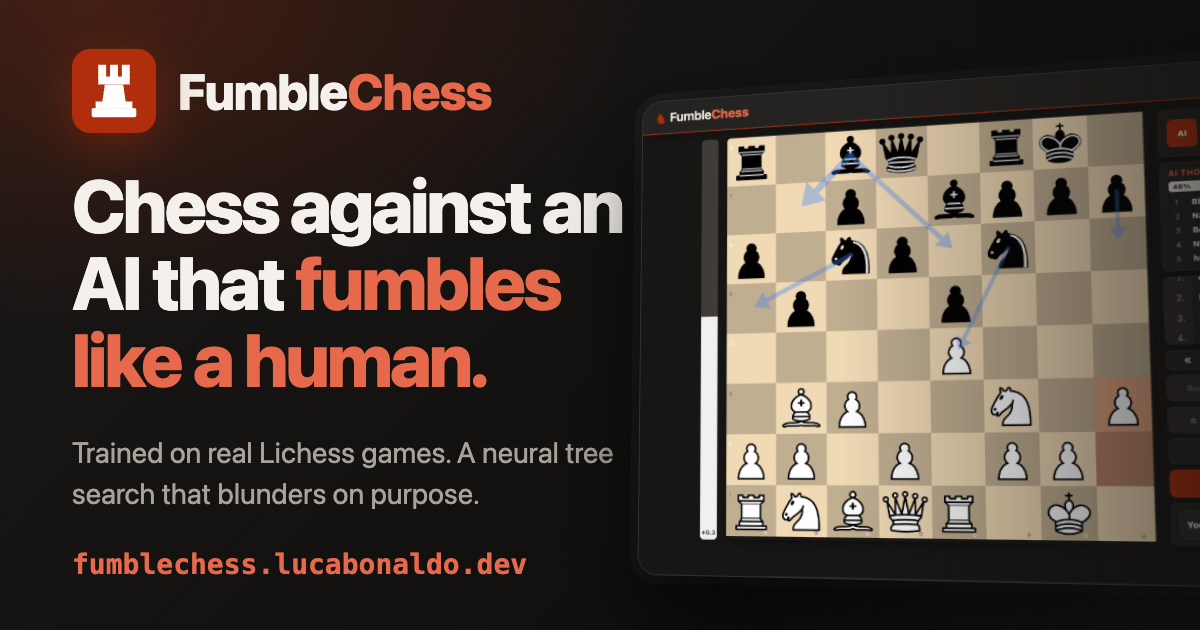
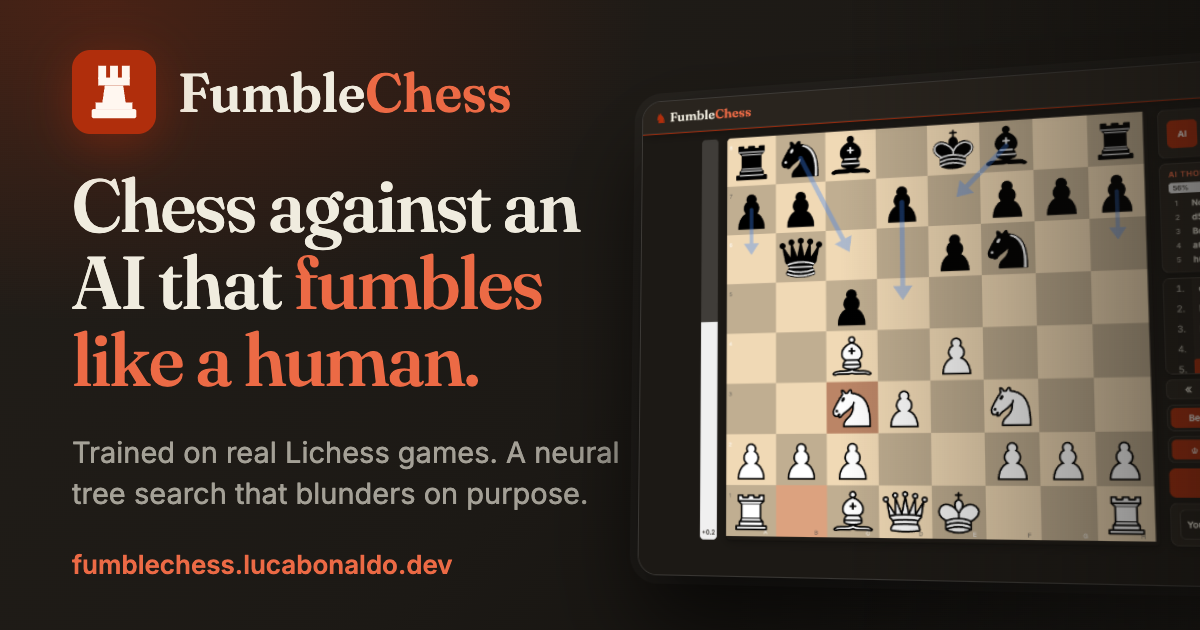
Adopt the paper & ink design system
Colors, fonts and light/dark come from @lucabonaldo/design (v0.1.0); the
board, eval bar and move highlights keep their own colors. Fraunces for the
wordmark and the About section, Inter for text. The theme toggle uses the
shared cookie, carrying over the old deepchess:theme setting.

Social preview restyled in warm ink with a fresh app screenshot.

diff --git a/src/style.css b/src/style.css
@@ -1,30 +1,21 @@
 :root {
-  --primary: #b02e0c;
-  --primary-hover: #96260a;
-  --on-primary: #fff;
-  --accent: #b02e0c; /* primary used for text/icons on the page background */
-  --bg: #f3f0eb;
-  --surface: #fff;
-  --surface-2: #ece8e1;
-  --text: #211f1c;
-  --muted: #6f6a62;
-  --border: #dcd6cc;
-  --shadow: 0 1px 2px rgba(0, 0, 0, 0.06), 0 4px 16px rgba(0, 0, 0, 0.06);
+  /* Colors and fonts come from @lucabonaldo/design (paper & ink), which also handles
+     light/dark. These are this app's aliases for its role tokens. */
+  --primary: var(--ds-accent-fill); /* filled shapes, paired with --on-primary */
+  --primary-hover: var(--ds-accent-fill-hover);
+  --on-primary: var(--ds-on-accent);
+  --accent: var(--ds-accent); /* text and icons on the page background */
+  --bg: var(--ds-bg);
+  --surface: var(--ds-surface);
+  --surface-2: var(--ds-bg-soft);
+  --text: var(--ds-text);
+  --muted: var(--ds-text-soft);
+  --border: var(--ds-line);
+  --shadow: var(--ds-shadow);
   --radius: 10px;
+  /* eval bar: the two sides of the board, same in both themes */
   --eval-dark: #403d39;
   --eval-light: #f0f0f0;
-  color-scheme: light;
-}
-:root[data-theme='dark'] {
-  --accent: #e5694a;
-  --bg: #171615;
-  --surface: #252321;
-  --surface-2: #2f2c29;
-  --text: #efebe4;
-  --muted: #a29b90;
-  --border: #3a3633;
-  --shadow: 0 1px 2px rgba(0, 0, 0, 0.4), 0 4px 16px rgba(0, 0, 0, 0.35);
-  color-scheme: dark;
 }
 
 * {
@@ -35,12 +26,7 @@ body {
   min-height: 100vh;
   background: var(--bg);
   color: var(--text);
-  font-family:
-    system-ui,
-    -apple-system,
-    'Segoe UI',
-    Roboto,
-    sans-serif;
+  font-family: var(--ds-font-text);
   -webkit-tap-highlight-color: transparent;
 }
 button {
@@ -67,16 +53,16 @@ button {
 }
 #top h1 {
   margin: 0;
+  font-family: var(--ds-font-display);
   font-size: 22px;
-  font-weight: 600;
-  letter-spacing: -0.01em;
+  font-weight: 560;
   display: flex;
   align-items: center;
   gap: 8px;
 }
 #top h1 b {
   color: var(--accent);
-  font-weight: 800;
+  font-weight: 640;
 }
 .logo {
   color: var(--primary);
@@ -1070,17 +1056,14 @@ html {
   }
 }
 #about {
-  --serif: 'Iowan Old Style', 'Palatino Linotype', Palatino, 'URW Palladio L', P052, Georgia, serif;
-  --mono: ui-monospace, 'SF Mono', Menlo, monospace;
+  --serif: var(--ds-font-display);
+  --mono: var(--ds-font-mono);
   --sq-light: #f0d9b5;
   --sq-dark: #c0ae91; /* Chessground's brown theme: black at 20% over the light square */
-  --accent-soft: rgba(176, 46, 12, 0.14);
+  --accent-soft: var(--ds-accent-soft);
   max-width: 1240px;
   margin: 0 auto;
   padding: 40px 24px 24px;
-}
-:root[data-theme='dark'] #about {
-  --accent-soft: rgba(229, 105, 74, 0.2);
 }
 .about-inner {
   max-width: 1000px;
@@ -1121,7 +1104,7 @@ html {
 }
 .ab-san {
   font-family: var(--serif);
-  font-weight: 700;
+  font-weight: 560;
   white-space: nowrap;
 }
 
@@ -1152,7 +1135,7 @@ html {
 .ab-hero h2 {
   font-family: var(--serif);
   font-size: clamp(36px, 6vw, 60px);
-  font-weight: 700;
+  font-weight: 560;
   line-height: 1.05;
   letter-spacing: -0.02em;
   margin: 0 0 24px;
@@ -1166,6 +1149,7 @@ html {
   max-width: 720px;
   font-family: var(--serif);
   font-size: 21px;
+  font-weight: 360;
   line-height: 1.55;
 }
 .ab-facts {
@@ -1185,7 +1169,7 @@ html {
 .ab-facts dt {
   font-family: var(--serif);
   font-size: 40px;
-  font-weight: 700;
+  font-weight: 560;
   line-height: 1.1;
   font-variant-numeric: lining-nums;
 }
@@ -1203,7 +1187,7 @@ html {
 .ab-sec h3 {
   font-family: var(--serif);
   font-size: clamp(26px, 3.4vw, 34px);
-  font-weight: 700;
+  font-weight: 560;
   letter-spacing: -0.01em;
   line-height: 1.15;
   margin: 0 0 18px;
@@ -1406,7 +1390,7 @@ html {
 .ab-cross thead th {
   font-family: var(--serif);
   font-size: 22px;
-  font-weight: 700;
+  font-weight: 560;
   border-bottom: 2px solid var(--text);
   white-space: nowrap;
 }
@@ -1566,7 +1550,7 @@ html {
   min-width: 1.4em;
   font-family: var(--serif);
   font-size: 40px;
-  font-weight: 700;
+  font-weight: 560;
   font-style: italic;
   line-height: 1;
   color: var(--accent);
@@ -1653,7 +1637,7 @@ html {
   padding: 14px 0;
   font-family: var(--serif);
   font-size: 19px;
-  font-weight: 700;
+  font-weight: 560;
   list-style: none;
   display: flex;
   align-items: center;
@@ -1688,7 +1672,7 @@ html {
 .ab-math dt {
   font-family: var(--serif);
   font-style: italic;
-  font-weight: 700;
+  font-weight: 560;
 }
 .ab-math dd {
   margin: 0;

diff --git a/scripts/brand/og.html b/scripts/brand/og.html
@@ -2,6 +2,7 @@
 <html lang="en">
   <head>
     <meta charset="UTF-8" />
+    <link rel="stylesheet" href="../../node_modules/@lucabonaldo/design/src/fonts.css" />
     <style>
       * {
         box-sizing: border-box;
@@ -15,14 +16,12 @@
       }
       body {
         position: relative;
-        font-family:
-          -apple-system, BlinkMacSystemFont, 'Inter', 'Segoe UI', Roboto, 'Helvetica Neue', Arial,
-          sans-serif;
-        color: #f4f1ec;
+        font-family: 'Inter', sans-serif;
+        color: #f0ecdf;
         background:
           radial-gradient(900px 520px at 8% 0%, rgba(176, 46, 12, 0.28), transparent 62%),
           radial-gradient(800px 600px at 100% 100%, rgba(255, 255, 255, 0.05), transparent 60%),
-          linear-gradient(135deg, #1a1816 0%, #121110 55%, #0e0d0c 100%);
+          linear-gradient(135deg, #221e19 0%, #1c1915 55%, #110f0c 100%);
       }
       .copy {
         position: absolute;
@@ -39,9 +38,9 @@
         display: flex;
         align-items: center;
         gap: 22px;
-        font-size: 50px;
-        font-weight: 800;
-        letter-spacing: -0.02em;
+        font-family: 'Fraunces', Georgia, serif;
+        font-size: 54px;
+        font-weight: 560;
       }
       .brand svg {
         width: 84px;
@@ -50,29 +49,29 @@
       }
       .brand em {
         font-style: normal;
-        color: #e5694a;
+        color: #ec6a45;
       }
       h1 {
         margin: 0;
+        font-family: 'Fraunces', Georgia, serif;
         font-size: 74px;
         line-height: 1.04;
-        font-weight: 800;
-        letter-spacing: -0.035em;
+        font-weight: 540;
+        letter-spacing: -0.02em;
       }
       h1 span {
-        color: #e5694a;
+        color: #ec6a45;
       }
       p {
         margin: 0;
         font-size: 29px;
         line-height: 1.4;
-        color: #a9a29a;
+        color: rgba(240, 236, 223, 0.64);
       }
       .url {
-        font-family: ui-monospace, 'SF Mono', Menlo, Consolas, monospace;
-        font-size: 28px;
-        font-weight: 700;
-        color: #e5694a;
+        font-size: 26px;
+        font-weight: 600;
+        color: #ec6a45;
       }
       .shot {
         position: absolute;
@@ -95,7 +94,7 @@
       .fade {
         position: absolute;
         inset: 0;
-        background: linear-gradient(90deg, transparent 70%, rgba(14, 13, 12, 0.55) 100%);
+        background: linear-gradient(90deg, transparent 70%, rgba(17, 15, 12, 0.55) 100%);
         pointer-events: none;
       }
     </style>
@@ -105,7 +104,7 @@
       <div class="brand">
         <svg viewBox="0 0 64 64" aria-hidden="true">
           <rect width="64" height="64" rx="14" fill="#b02e0c" />
-          <g fill="#fff">
+          <g fill="#fff7f0">
             <rect x="20" y="12" width="6" height="10" />
             <rect x="29" y="12" width="6" height="10" />
             <rect x="38" y="12" width="6" height="10" />

diff --git a/src/ui/theme.ts b/src/ui/theme.ts
@@ -1,5 +1,15 @@
-const KEY = 'deepchess:theme';
-type Theme = 'light' | 'dark';
+import {
+  getStoredTheme,
+  getTheme,
+  initTheme as initDesignTheme,
+  onThemeChange,
+  setTheme,
+  toggleTheme,
+  type Theme,
+} from '@lucabonaldo/design';
+
+// key used before the theme moved to the design system's shared cookie
+const LEGACY_KEY = 'deepchess:theme';
 
 const ICON: Record<Theme, string> = {
   // icon shows the mode you will switch to
@@ -8,25 +18,26 @@ const ICON: Record<Theme, string> = {
   dark: '<svg viewBox="0 0 24 24" width="20" height="20" fill="none" stroke="currentColor" stroke-width="2" stroke-linecap="round"><circle cx="12" cy="12" r="4" fill="currentColor"/><path d="M12 2v2M12 20v2M2 12h2M20 12h2M4.9 4.9l1.4 1.4M17.7 17.7l1.4 1.4M4.9 19.1l1.4-1.4M17.7 6.3l1.4-1.4"/></svg>',
 };
 
-function current(): Theme {
-  return document.documentElement.dataset.theme === 'dark' ? 'dark' : 'light';
-}
-
-function apply(theme: Theme, button: HTMLElement) {
-  document.documentElement.dataset.theme = theme;
-  button.innerHTML = ICON[theme];
-}
-
-/** Theme is set before first paint by an inline script in index.html; this wires the toggle. */
+/**
+ * Theme state, persistence (a cookie shared across lucabonaldo.dev) and theme-color come from
+ * the design system, whose inline script sets the theme before first paint. This migrates the
+ * old stored choice once and keeps the toggle's icon in sync.
+ */
 export function initTheme(button: HTMLElement) {
-  apply(current(), button);
-  button.addEventListener('click', () => {
-    const next: Theme = current() === 'dark' ? 'light' : 'dark';
-    apply(next, button);
-    try {
-      localStorage.setItem(KEY, next);
-    } catch {
-      // storage unavailable: theme just won't persist
+  try {
+    const legacy = localStorage.getItem(LEGACY_KEY);
+    if (legacy === 'light' || legacy === 'dark') {
+      if (!getStoredTheme()) setTheme(legacy);
+      localStorage.removeItem(LEGACY_KEY);
     }
-  });
+  } catch {
+    // storage unavailable: nothing to migrate
+  }
+  const paint = (theme: Theme) => {
+    button.innerHTML = ICON[theme];
+  };
+  button.addEventListener('click', toggleTheme);
+  onThemeChange(paint);
+  initDesignTheme();
+  paint(getTheme());
 }

diff --git a/index.html b/index.html
@@ -17,8 +17,7 @@
     <meta name="color-scheme" content="light dark" />
     <link rel="canonical" href="__SITE_URL__/" />
 
-    <meta name="theme-color" content="#f3f0eb" media="(prefers-color-scheme: light)" />
-    <meta name="theme-color" content="#171615" media="(prefers-color-scheme: dark)" />
+    <meta name="theme-color" content="#f5f2ea" />
     <link rel="icon" type="image/svg+xml" href="/favicon.svg" />
     <link rel="icon" type="image/png" sizes="32x32" href="/favicon-32.png" />
     <link rel="apple-touch-icon" sizes="180x180" href="/apple-touch-icon.png" />
@@ -93,17 +92,6 @@
             "url": "https://lucabonaldo.dev"
           }
         ]
-      }
-    </script>
-    <script>
-      // set theme before first paint to avoid a flash
-      try {
-        var t = localStorage.getItem('deepchess:theme');
-        if (t !== 'light' && t !== 'dark')
-          t = matchMedia('(prefers-color-scheme: dark)').matches ? 'dark' : 'light';
-        document.documentElement.dataset.theme = t;
-      } catch (e) {
-        document.documentElement.dataset.theme = 'light';
       }
     </script>
   </head>

diff --git a/vite.config.ts b/vite.config.ts
@@ -1,9 +1,10 @@
 /// <reference types="vitest/config" />
 import { defineConfig } from 'vite';
+import { designSystem } from '@lucabonaldo/design/vite';
 import { seo } from './scripts/seo';
 
 export default defineConfig({
-  plugins: [seo()],
+  plugins: [designSystem(), seo()],
   test: {
     include: ['tests/**/*.test.ts'],
     environment: 'node',

diff --git a/src/main.ts b/src/main.ts
@@ -30,6 +30,8 @@ import {
   resetThoughts,
   showScanning,
 } from './ui/thoughts';
+import '@lucabonaldo/design/fonts.css';
+import '@lucabonaldo/design/tokens.css';
 import './style.css';
 
 document.querySelector<HTMLDivElement>('#app')!.innerHTML = `
